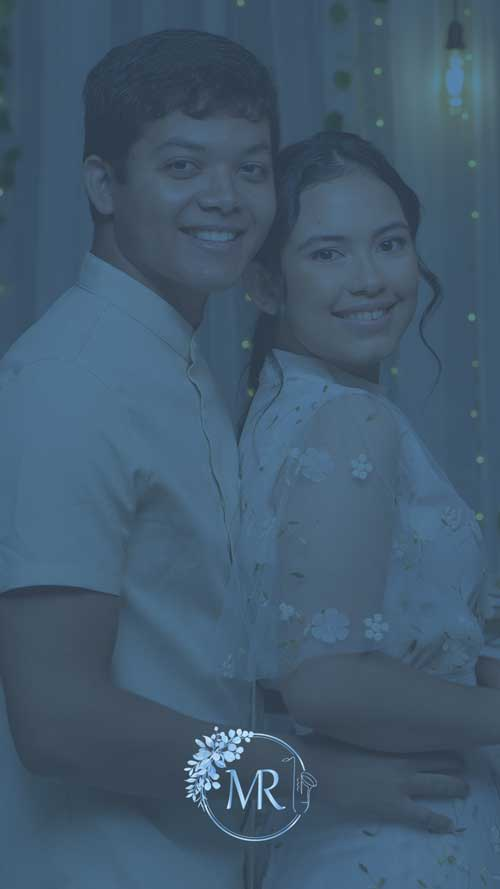
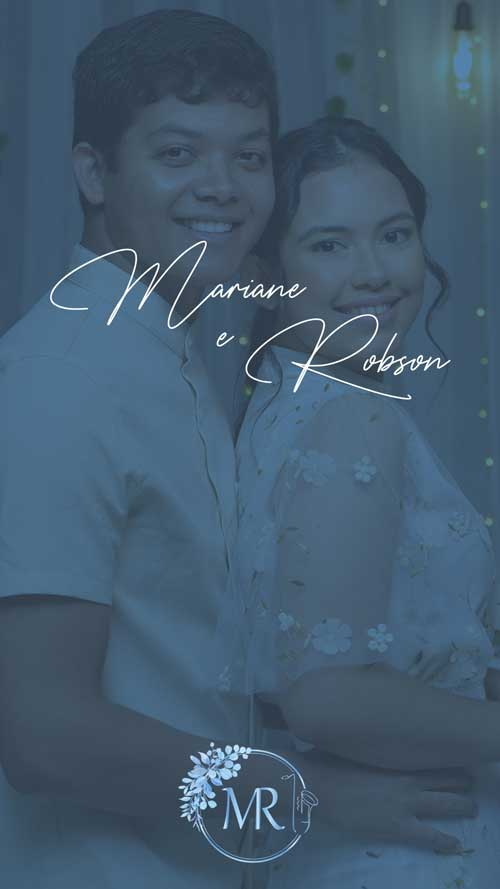
att

diff --git a/index.html b/index.html
@@ -5,9 +5,8 @@
     <meta http-equiv="X-UA-Compatible" content="IE=edge">
     <meta name="viewport" content="width=device-width, initial-scale=1">
     <title>M & R</title>
+    <link href="https://fonts.googleapis.com/css2?family=Montserrat:wght@100;200;300;400;500;600;700;800&family=Parisienne&display=swap" rel="stylesheet">
     <link rel="preconnect" href="https://fonts.googleapis.com">
-    <link rel="preconnect" href="https://fonts.gstatic.com" crossorigin>
-    <link href="https://fonts.googleapis.com/css2?family=Montserrat:wght@100;200;300;400;500;600;700;800&display=swap" rel="stylesheet">
     <link rel="preconnect" href="https://fonts.gstatic.com" crossorigin="crossorigin"/>
     <link rel="preload" as="style" href="https://fonts.googleapis.com/css2?family=Dosis:wght@400;500&amp;display=swap"/>
     <link rel="stylesheet" href="https://fonts.googleapis.com/css2?family=Dosis:wght@400;500&amp;display=swap" media="print" onload="this.media='all'"/>
@@ -36,9 +35,9 @@
 <div class="ww-home-page" id="home">
   <div class="ww-wedding-announcement d-flex align-items-center justify-content-start">
     <div class="container ww-announcement-container">
-      <p class="ww-couple-name ww-title" >Mariane e Robson</p>
+      <!-- <p class="ww-couple-name ww-title" style="font-family: Parisienne; padding: 0px; line-height:0.9;" >Mariane <br> e <br> Robson</p> -->
       <!-- <p class="h2 mt-5 ww-title">Vamos casar em</p> -->
-      <div id="countdown" class="h3 mt-3" style></div>
+      <div id="countdown" class="h3 mt-3"></div>
     </div>
   </div>
 </div>
@@ -75,10 +74,15 @@
     <div class="row text-center">
       <div class="col-md-12">
         <div class="mt-6"><img class="img-fluid" src="images/nós_mobile.jpg" alt="Groom"/>
-          <p class="pt-6 text-left text-muted">Mariane e Robson,Lorem ipsum dolor sit amet consectetur adipiscing, elit nulla enim arcu dictum lobortis, 
-            ac congue non hendrerit accumsan. Ut penatibus litora platea mi mus tempus eros proin, maecenas hac eget hendrerit inceptos per tempor sodales, 
-            id varius nulla commodo augue lectus pulvinar. Etiam suscipit leo sollicitudin vivamus tempor himenaeos vitae mattis dictum posuere, 
-            tincidunt aenean litora aptent facilisis eu est gravida.</p>
+          <p class="pt-6 text-left text-muted">
+            Bem-vindo(a) ao nosso cantinho especial! Somos Mari e Rob, dois corações que encontraram o amor e estão prontos para compartilhar esse momento mágico com vocês. 
+            Nossa jornada começou após um tenso período de pandemia e momentos de incerteza, que conseguimos superar com a ajuda de Deus e muita parceria. Desde então, temos crescido juntos, enfrentando desafios e celebrando conquistas.
+            Nossos amigos nos descrevem como "gêmeos", fica aí a dúvida se é apenas na aparência ou também na personalidade.
+            Juntos, compartilhamos paixões, sonhos e um amor incondicional que nos inspira todos os dias.
+            Este site é mais do que uma simples plataforma para informações sobre nosso casamento; é um reflexo do nosso amor, dedicação e compromisso um com o outro. Estamos emocionados por compartilhar este capítulo de nossas vidas com vocês e ansiosos para criar memórias inesquecíveis juntos.
+            Obrigado por fazerem parte da nossa história e por nos apoiarem neste momento tão especial.
+            Mal podemos esperar para celebrar o amor e a felicidade ao seu lado!
+          </p>
           <h3 class="h2 ww-title" style="font-size: 1.5rem;">Mariane e Robson</h3>
         </div>
       </div>

diff --git a/css/main.css b/css/main.css
@@ -123,6 +123,11 @@ body::-webkit-scrollbar-corner {
         .ww-home-page1 .ww-wedding-announcement .ww-couple-name {
           font-size: 40px; } }
 
+.ww-home-page .ww-couple-name .ww-title{
+  font-family: "Parisienne", cursive;
+  font-weight: 400;
+  font-style: normal;
+}
 /* Nav Bar Style */
 .ww-nav-bar .heart {
   fill: #60D8DF;
